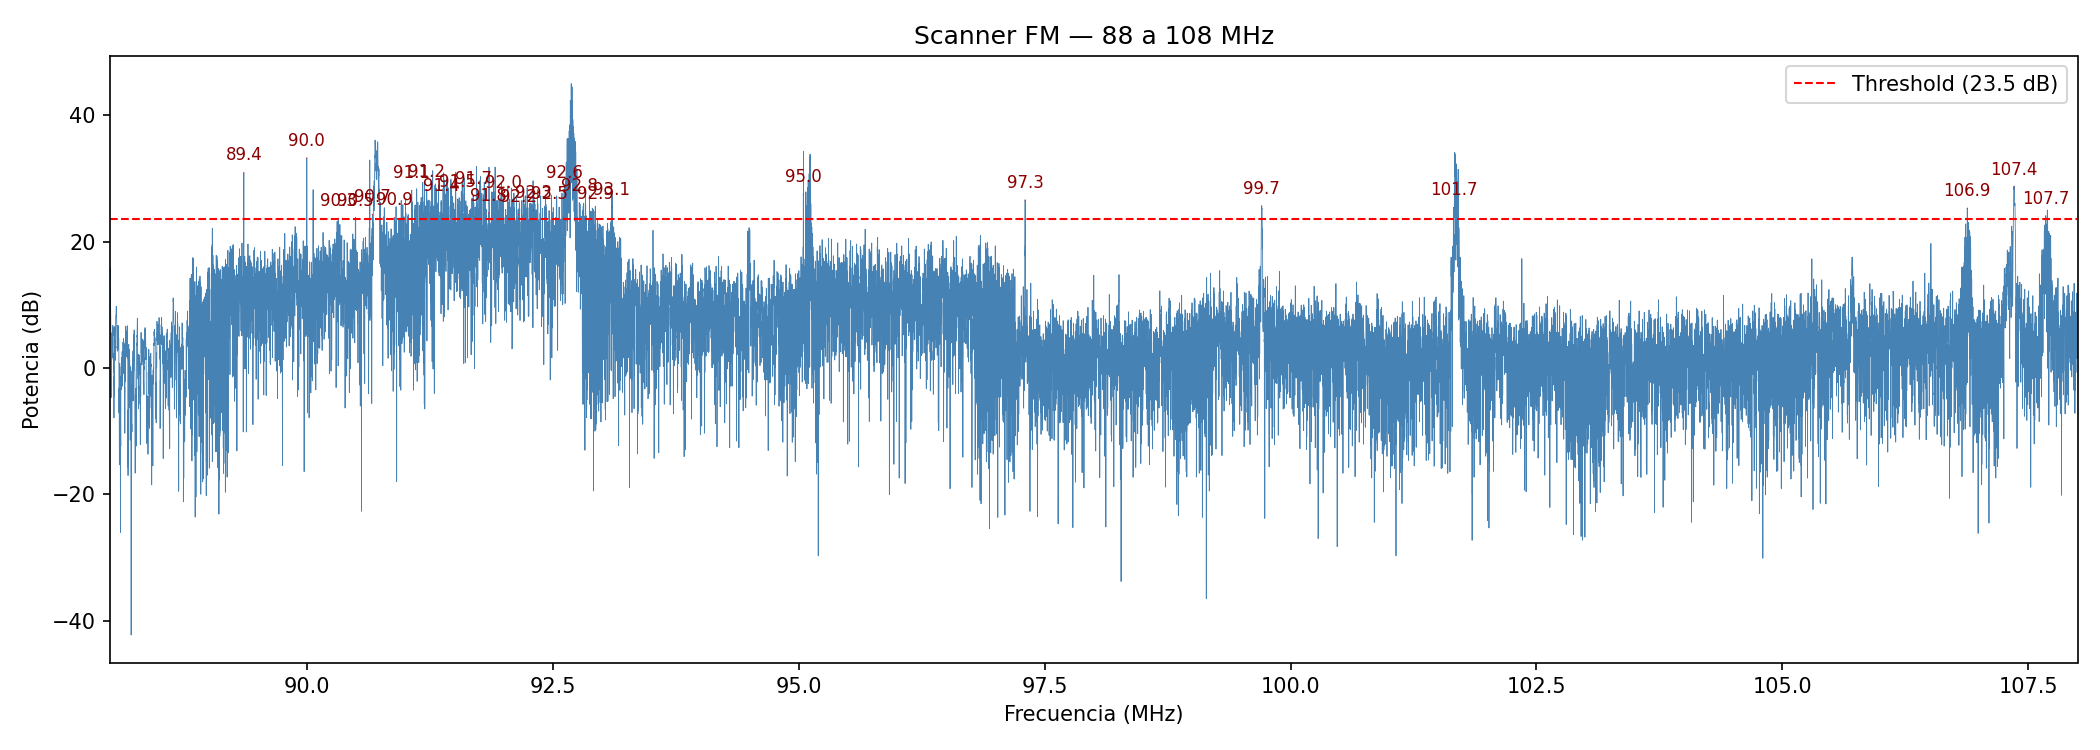
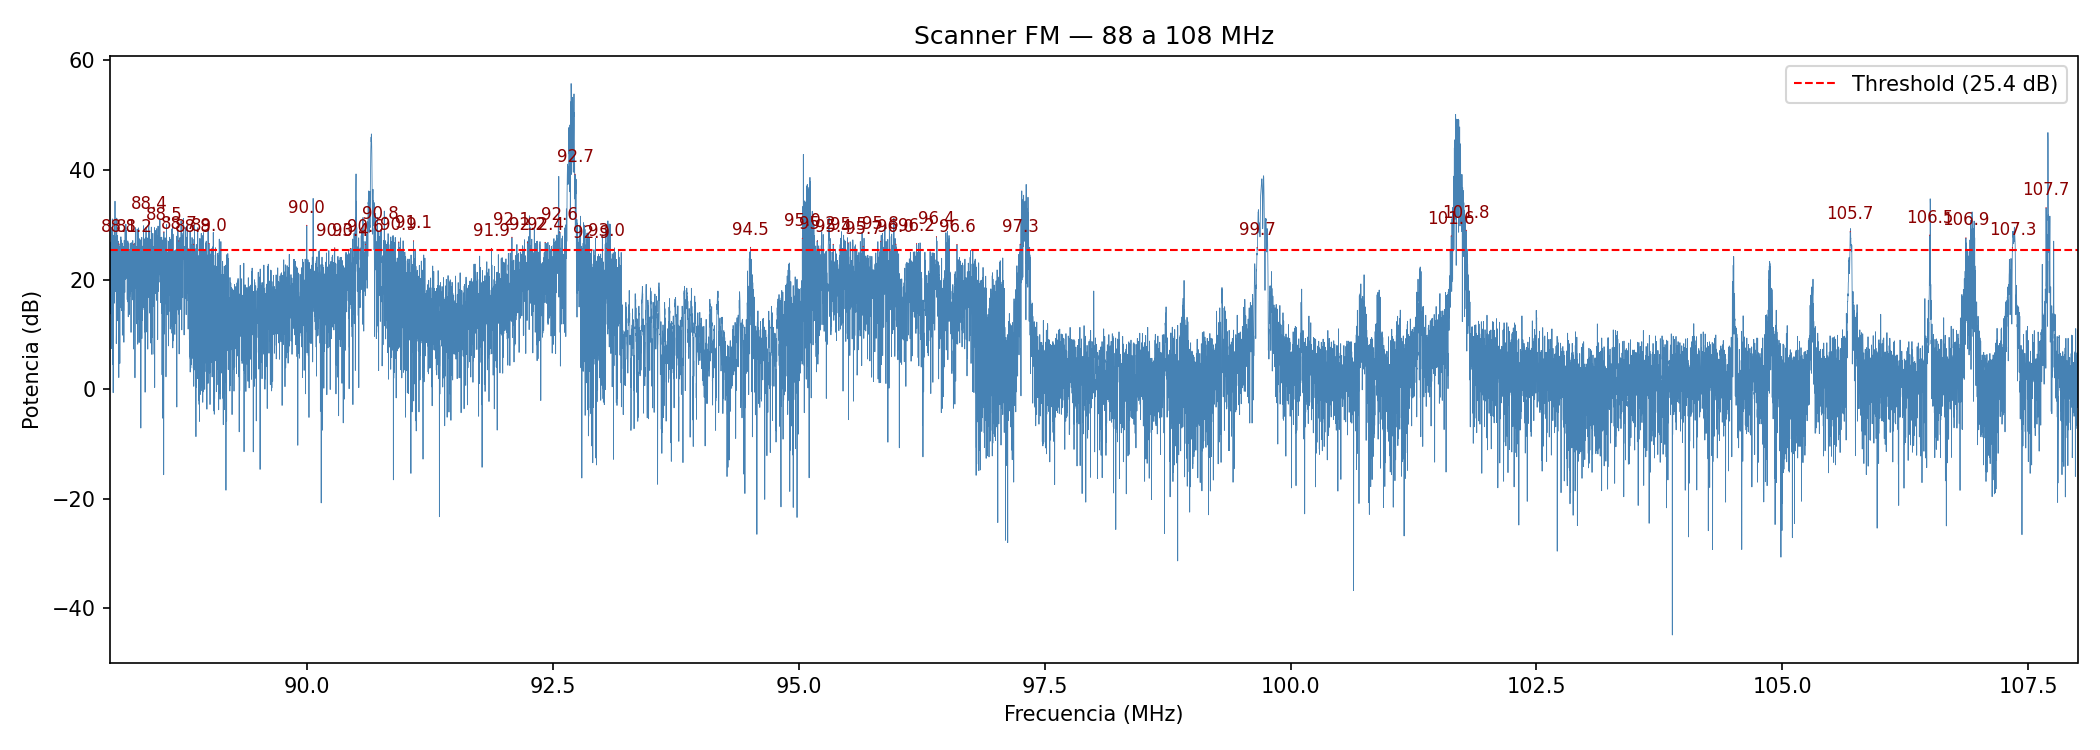
- Añadido de código para capturar dataset, entrenar clasificador y clasificar en vivo.

diff --git a/entrenar_clasificador.py b/entrenar_clasificador.py
@@ -1,0 +1,120 @@
+import numpy as np
+from sklearn.ensemble import RandomForestClassifier
+from sklearn.model_selection import train_test_split
+from sklearn.metrics import classification_report, confusion_matrix
+import matplotlib.pyplot as plt
+import joblib
+
+# ─── Cargar dataset ───────────────────────────────────────────────────────────
+fm    = np.load('dataset/fm.npy')
+adsb  = np.load('dataset/adsb.npy')
+noise = np.load('dataset/noise.npy')
+
+# ─── Extraer features de IQ samples ──────────────────────────────────────────
+def extract_features(samples):
+    """
+    Extrae features del dominio del tiempo y frecuencia.
+    Cada fila de samples es una captura de 1024 IQ samples.
+    """
+    features = []
+    for s in samples:
+        # Magnitud y fase
+        mag   = np.abs(s)
+        phase = np.angle(s)
+        
+        # Features del dominio del tiempo
+        mean_mag    = np.mean(mag)
+        std_mag     = np.std(mag)
+        kurtosis    = np.mean((mag - mean_mag)**4) / (std_mag**4 + 1e-10)
+        skewness    = np.mean((mag - mean_mag)**3) / (std_mag**3 + 1e-10)
+        
+        # Variación de fase (clave para distinguir FM)
+        phase_diff  = np.diff(np.unwrap(phase))
+        mean_phase  = np.mean(np.abs(phase_diff))
+        std_phase   = np.std(phase_diff)
+        
+        # Features espectrales
+        fft     = np.fft.fftshift(np.abs(np.fft.fft(s)))
+        psd     = fft ** 2
+        psd_norm = psd / (np.sum(psd) + 1e-10)
+        
+        spectral_mean     = np.mean(psd_norm)
+        spectral_std      = np.std(psd_norm)
+        spectral_entropy  = -np.sum(psd_norm * np.log2(psd_norm + 1e-10))
+        peak_to_mean      = np.max(psd) / (np.mean(psd) + 1e-10)
+        
+        # Ratio IQ
+        i_std = np.std(s.real)
+        q_std = np.std(s.imag)
+        iq_ratio = i_std / (q_std + 1e-10)
+
+        features.append([
+            mean_mag, std_mag, kurtosis, skewness,
+            mean_phase, std_phase,
+            spectral_mean, spectral_std, spectral_entropy, peak_to_mean,
+            iq_ratio
+        ])
+    return np.array(features)
+
+print("Extrayendo features...")
+X_fm    = extract_features(fm)
+X_adsb  = extract_features(adsb)
+X_noise = extract_features(noise)
+
+# Labels: 0=FM, 1=ADS-B, 2=Ruido
+X = np.vstack([X_fm, X_adsb, X_noise])
+y = np.array([0]*500 + [1]*500 + [2]*500)
+
+# ─── Entrenar clasificador ────────────────────────────────────────────────────
+X_train, X_test, y_train, y_test = train_test_split(
+    X, y, test_size=0.2, random_state=42, stratify=y)
+
+print("Entrenando Random Forest...")
+clf = RandomForestClassifier(n_estimators=100, random_state=42)
+clf.fit(X_train, y_train)
+
+# ─── Evaluar ──────────────────────────────────────────────────────────────────
+y_pred = clf.predict(X_test)
+labels = ['FM', 'ADS-B', 'Ruido']
+
+print("\n=== Reporte de clasificación ===")
+print(classification_report(y_test, y_pred, target_names=labels))
+
+# Confusion matrix
+cm = confusion_matrix(y_test, y_pred)
+fig, ax = plt.subplots(figsize=(6, 5))
+im = ax.imshow(cm, cmap='Blues')
+ax.set_xticks(range(3)); ax.set_xticklabels(labels)
+ax.set_yticks(range(3)); ax.set_yticklabels(labels)
+ax.set_xlabel('Predicción')
+ax.set_ylabel('Real')
+ax.set_title('Confusion Matrix — AMC Classifier')
+plt.colorbar(im)
+for i in range(3):
+    for j in range(3):
+        ax.text(j, i, str(cm[i,j]), ha='center', va='center',
+                color='white' if cm[i,j] > cm.max()/2 else 'black',
+                fontsize=14, fontweight='bold')
+plt.tight_layout()
+plt.savefig('confusion_matrix.png', dpi=150)
+plt.show()
+
+# Feature importance
+fig2, ax2 = plt.subplots(figsize=(8, 4))
+feature_names = ['mean_mag','std_mag','kurtosis','skewness',
+                 'mean_phase','std_phase','spec_mean','spec_std',
+                 'spec_entropy','peak_to_mean','iq_ratio']
+importances = clf.feature_importances_
+idx = np.argsort(importances)[::-1]
+ax2.bar(range(11), importances[idx], color='steelblue')
+ax2.set_xticks(range(11))
+ax2.set_xticklabels([feature_names[i] for i in idx], rotation=45, ha='right')
+ax2.set_title('Feature Importance — Random Forest')
+ax2.set_ylabel('Importancia relativa')
+plt.tight_layout()
+plt.savefig('feature_importance.png', dpi=150)
+plt.show()
+
+# Guardar modelo
+joblib.dump(clf, 'modelo_amc.pkl')
+print("\nModelo guardado: modelo_amc.pkl")

diff --git a/clasificar_en_vivo.py b/clasificar_en_vivo.py
@@ -1,0 +1,78 @@
+import numpy as np
+from rtlsdr import RtlSdr
+import joblib
+import time
+
+# Cargar modelo entrenado
+clf = joblib.load('modelo_amc.pkl')
+labels = ['FM', 'ADS-B', 'Ruido']
+
+def extract_features(s):
+    mag   = np.abs(s)
+    phase = np.angle(s)
+    
+    mean_mag   = np.mean(mag)
+    std_mag    = np.std(mag)
+    kurtosis   = np.mean((mag - mean_mag)**4) / (std_mag**4 + 1e-10)
+    skewness   = np.mean((mag - mean_mag)**3) / (std_mag**3 + 1e-10)
+    
+    phase_diff = np.diff(np.unwrap(phase))
+    mean_phase = np.mean(np.abs(phase_diff))
+    std_phase  = np.std(phase_diff)
+    
+    fft      = np.fft.fftshift(np.abs(np.fft.fft(s)))
+    psd      = fft ** 2
+    psd_norm = psd / (np.sum(psd) + 1e-10)
+    
+    spectral_mean    = np.mean(psd_norm)
+    spectral_std     = np.std(psd_norm)
+    spectral_entropy = -np.sum(psd_norm * np.log2(psd_norm + 1e-10))
+    peak_to_mean     = np.max(psd) / (np.mean(psd) + 1e-10)
+    
+    i_std    = np.std(s.real)
+    q_std    = np.std(s.imag)
+    iq_ratio = i_std / (q_std + 1e-10)
+
+    return np.array([[mean_mag, std_mag, kurtosis, skewness,
+                      mean_phase, std_phase,
+                      spectral_mean, spectral_std, spectral_entropy,
+                      peak_to_mean, iq_ratio]])
+
+sdr = RtlSdr()
+sdr.sample_rate = 2.4e6
+sdr.gain = 40
+time.sleep(0.5)
+
+# Frecuencias a monitorear
+frecuencias = {
+    'FM 92.7 MHz':  92.7e6,
+    'ADS-B 1090 MHz': 1090e6,
+    'Desconocida 400 MHz': 400e6,
+    'Desconocida 433 MHz': 433e6,  # ISM band, controles remotos
+}
+
+print("=== Clasificador AMC en vivo ===\n")
+print(f"{'Frecuencia':<25} {'Predicción':<10} {'Confianza'}")
+print("-" * 50)
+
+for nombre, freq in frecuencias.items():
+    sdr.center_freq = freq
+    time.sleep(0.1)
+    
+    all_preds = []
+    all_proba = []
+    for _ in range(10):
+        samples = sdr.read_samples(1024)
+        f = extract_features(samples)
+        all_preds.append(clf.predict(f)[0])
+        all_proba.append(clf.predict_proba(f)[0])
+    
+    # Votación por mayoría
+    from collections import Counter
+    voto = Counter(all_preds).most_common(1)[0][0]
+    confianza = np.mean([p[voto] for p in all_proba]) * 100
+    
+    print(f"{nombre:<25} {labels[voto]:<10} {confianza:.1f}%")
+
+sdr.close()
+print("\nHecho.")

diff --git a/capturar_dataset.py b/capturar_dataset.py
@@ -1,0 +1,76 @@
+import numpy as np
+from rtlsdr import RtlSdr
+import time
+import os
+
+os.makedirs('dataset', exist_ok=True)
+
+sdr = RtlSdr()
+sdr.sample_rate = 2.4e6
+time.sleep(0.5)
+
+MUESTRAS_POR_CAPTURA = 1024
+CAPTURAS = 500  # subimos de 200 a 500
+
+# Varias frecuencias FM y gains para más variedad
+fm_configs = [
+    (92.7e6, 40),
+    (99.7e6, 40),
+    (101.7e6, 40),
+    (92.7e6, 20),  # mismo canal, gain bajo = señal más débil
+    (99.7e6, 20),
+]
+
+print("=== Capturando FM ===")
+all_fm = []
+capturas_por_config = CAPTURAS // len(fm_configs)
+for freq, gain in fm_configs:
+    sdr.center_freq = freq
+    sdr.gain = gain
+    time.sleep(0.2)
+    for i in range(capturas_por_config):
+        s = sdr.read_samples(MUESTRAS_POR_CAPTURA)
+        all_fm.append(s)
+    print(f"  {freq/1e6:.1f} MHz gain={gain} — {capturas_por_config} muestras")
+
+np.save('dataset/fm.npy', np.array(all_fm))
+print(f"  Total FM: {len(all_fm)} muestras\n")
+
+# ADS-B con más capturas
+print("=== Capturando ADS-B ===")
+sdr.center_freq = 1090e6
+sdr.gain = 49
+adsb_samples = []
+for i in range(CAPTURAS):
+    s = sdr.read_samples(MUESTRAS_POR_CAPTURA)
+    adsb_samples.append(s)
+    if (i+1) % 100 == 0:
+        print(f"  {i+1}/{CAPTURAS}")
+np.save('dataset/adsb.npy', np.array(adsb_samples))
+print(f"  Total ADS-B: {len(adsb_samples)} muestras\n")
+
+# Ruido en varias frecuencias vacías
+print("=== Capturando ruido ===")
+noise_configs = [
+    (400e6, 0),
+    (350e6, 0),
+    (450e6, 0),
+    (400e6, 10),  # gain más alto = más ruido del propio dongle
+    (350e6, 10),
+]
+all_noise = []
+capturas_por_config = CAPTURAS // len(noise_configs)
+for freq, gain in noise_configs:
+    sdr.center_freq = freq
+    sdr.gain = gain
+    time.sleep(0.2)
+    for i in range(capturas_por_config):
+        s = sdr.read_samples(MUESTRAS_POR_CAPTURA)
+        all_noise.append(s)
+    print(f"  {freq/1e6:.1f} MHz gain={gain} — {capturas_por_config} muestras")
+
+np.save('dataset/noise.npy', np.array(all_noise))
+print(f"  Total ruido: {len(all_noise)} muestras\n")
+
+sdr.close()
+print(f"Dataset completo: {len(all_fm)} FM + {len(adsb_samples)} ADS-B + {len(all_noise)} ruido")